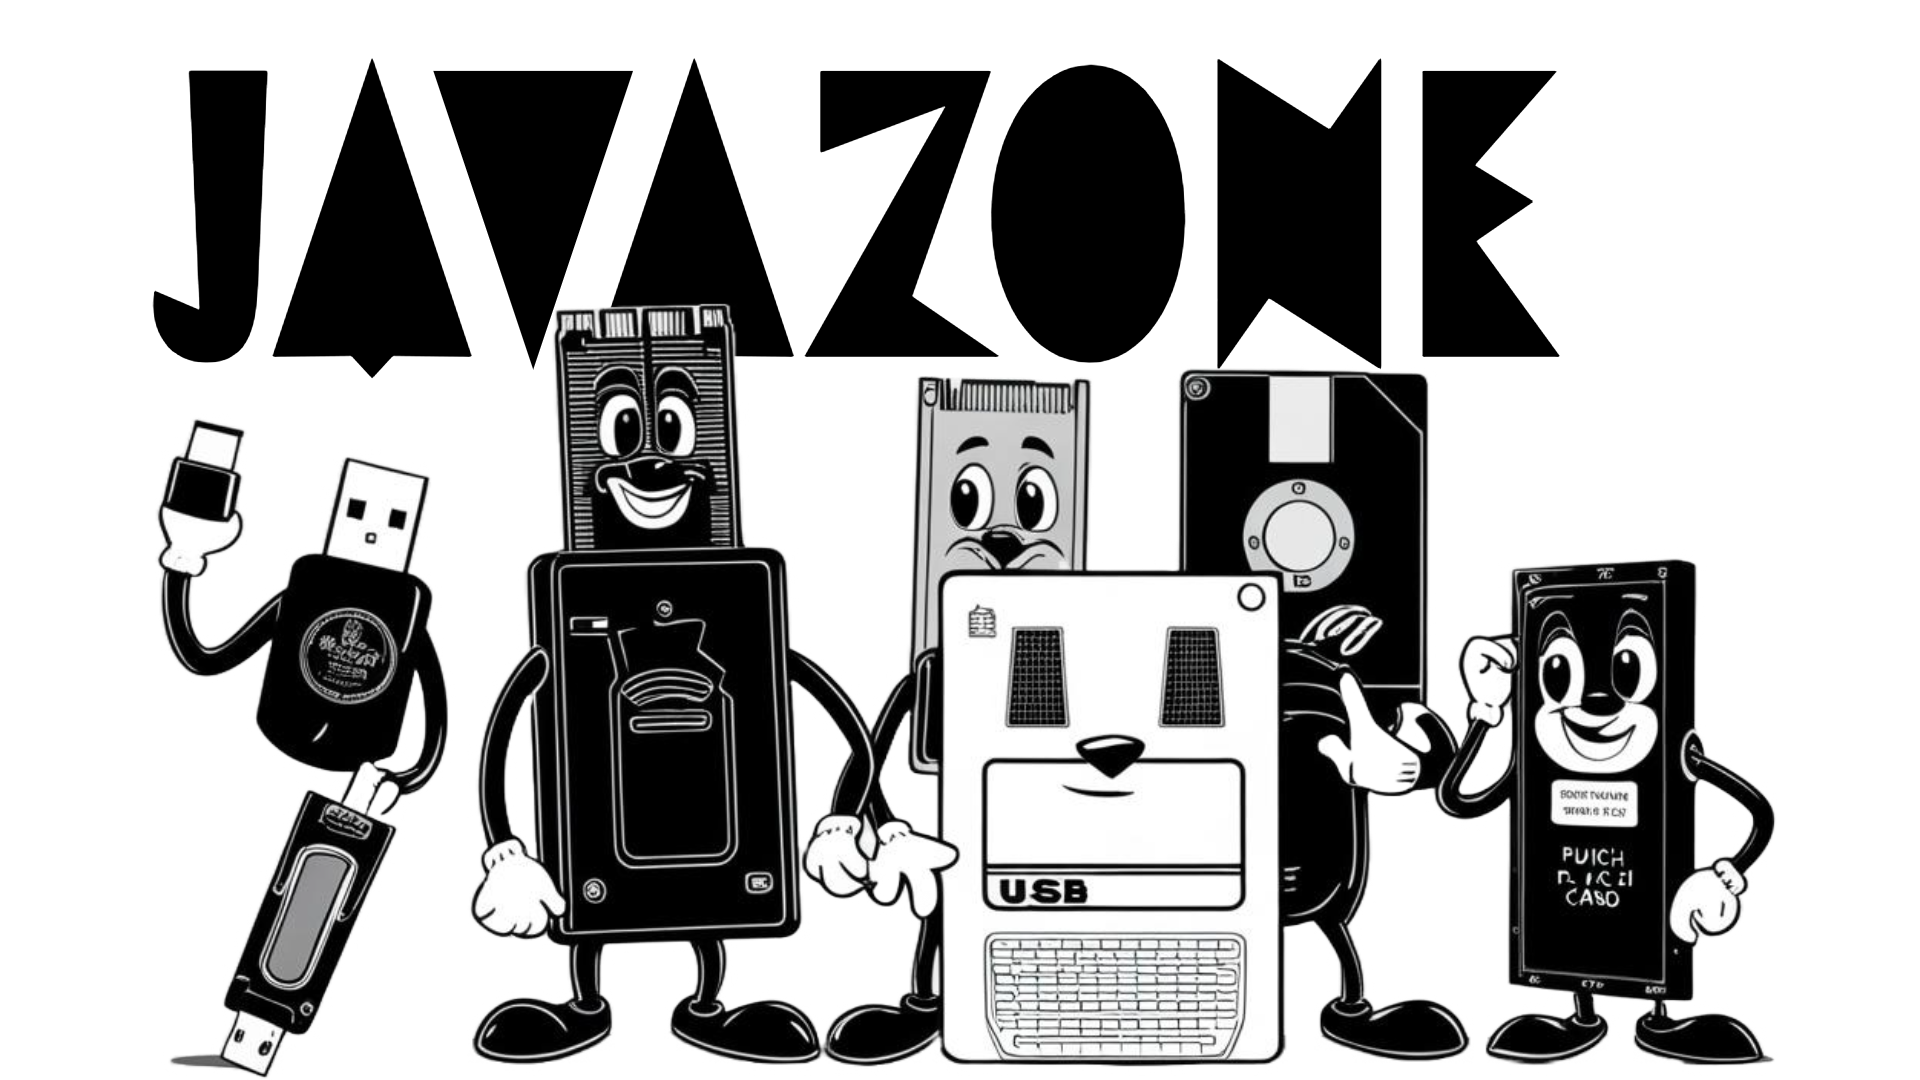
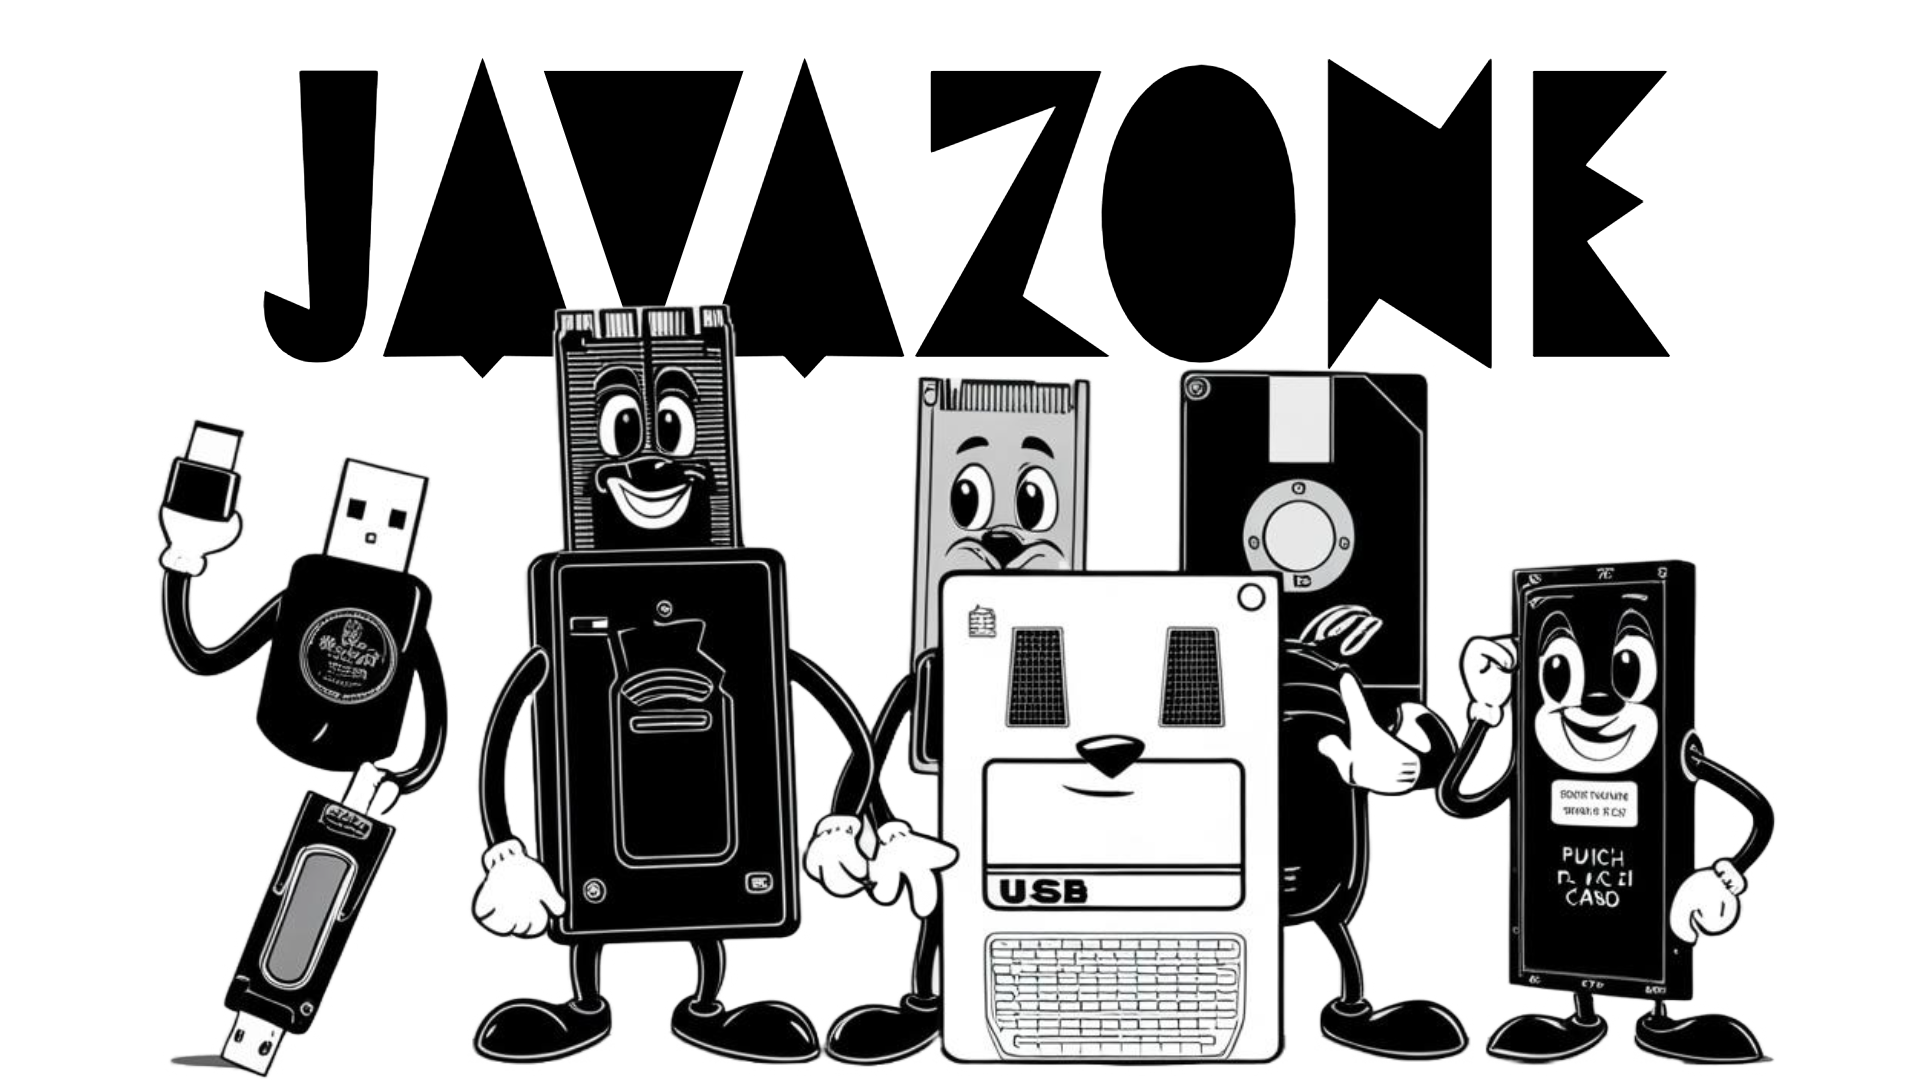
css for header og hero

Changed region(s): [[0.0625, 0.0611, 0.875, 0.3667]]

diff --git a/src/components/layout/Header.tsx b/src/components/layout/Header.tsx
@@ -1,8 +1,8 @@
-//Navigation and auth status display
-
 import { Link, useNavigate } from 'react-router-dom';
 import { useAuth } from '../../context/AuthContext';
 import logo from '../../assets/JavaZoneLogo.png';
+import { useState } from 'react';
+import './Header.css';
 
 // Type-definisjon for NavLink-komponentens props
 type NavLinkProps = {
@@ -17,8 +17,15 @@ const NavLink = ({ to, children }: NavLinkProps) => (
     </Link>
 );
 
+//Type-definisjon for menyens tilstand
+type MenuState = {
+    isOpen: boolean;
+}
+
 // Hoved-Header-komponent for nettstedets navigasjon
 export const Header = () => {
+    //Tilstandshåndtering for hamburger-menyen
+    const [menuState, setMenuState] = useState<MenuState>({ isOpen: false });
     // Hent autentiseringsstatus og utloggingsfunksjon fra auth context
     const { isAuthenticated, logout } = useAuth();
     const navigate = useNavigate();
@@ -29,17 +36,29 @@ export const Header = () => {
         navigate('/login');
     };
 
+    //Veksle menyens åpen/lukket tilstand
+    const toggleMenu = () => {
+        setMenuState(prev => ({ isOpen: !prev.isOpen }));
+    };
+
     return (
-        <header>
-            <img src={logo} className="java-zone-logo" alt="JavaZone logo" />
-            <nav>
-                {/* Hoved-navigasjonslenker */}
+        <header className="header">
+            <div className="logo-container">
+                <img src={logo} alt="JavaZone logo" />
+            </div>
+            
+            <button className="hamburger" onClick={toggleMenu}>
+                <span></span>
+                <span></span>
+                <span></span>
+            </button>
+    
+            <nav className={menuState.isOpen ? 'nav-open' : ''}>
                 <NavLink to="/">Home</NavLink>
                 <NavLink to="/speakers">Speakers</NavLink>
                 <NavLink to="/talks">Talks</NavLink>
                 <NavLink to="/rooms">Rooms</NavLink>
-
-                {/* Betinget rendering basert på autentiseringsstatus */}
+    
                 {isAuthenticated ? (
                     <button onClick={handleLogout}>Logout</button>
                 ) : (
@@ -48,4 +67,4 @@ export const Header = () => {
             </nav>
         </header>
     );
-};
+    }

diff --git a/src/App.css b/src/App.css
@@ -1,44 +1,57 @@
 #root {
-  max-width: 1280px;
-  margin: 0 auto;
+  width: 100%;
+  margin: 0;
   padding: 2rem;
   text-align: center;
+  min-height: 100vh;
 }
 
-.logo {
-  height: 6em;
-  padding: 1.5em;
-  will-change: filter;
-  transition: filter 300ms;
-}
-.logo:hover {
-  filter: drop-shadow(0 0 2em #646cffaa);
-}
-.logo.react:hover {
-  filter: drop-shadow(0 0 2em #61dafbaa);
+/*css reset*/
+*, *::before, *::after {
+  box-sizing: border-box;
+  margin: 0;
+  padding: 0;
 }
 
-@keyframes logo-spin {
-  from {
-    transform: rotate(0deg);
-  }
-  to {
-    transform: rotate(360deg);
-  }
+html {
+  font-size: 16px;
+  scroll-behavior: smooth;
 }
 
-@media (prefers-reduced-motion: no-preference) {
-  a:nth-of-type(2) .logo {
-    animation: logo-spin infinite 20s linear;
-  }
+body {
+  line-height: 1.5;
+  -webkit-font-smoothing: antialiased;
+  -moz-osx-font-smoothing: grayscale;
 }
 
-.card {
-  padding: 2em;
+img, picture, video, canvas, svg {
+  display: block;
+  max-width: 100%;
 }
 
-.read-the-docs {
-  color: #888;
+input, button, textarea, select {
+  font: inherit;
+}
+
+p, h1, h2, h3, h4, h5, h6 {
+  overflow-wrap: break-word;
+}
+
+#root {
+  isolation: isolate;
+}
+
+/*Home page css*/
+.hero-image {
+  width: 100%;
+  overflow: hidden;
+}
+
+.hero-image img {
+  width: 100%;
+  height: auto;
+  display: block;
+  max-height: 80vh;
 }
 
 /*Speaker list css*/

diff --git a/src/components/layout/Header.css b/src/components/layout/Header.css
@@ -1,0 +1,48 @@
+.header {
+    display: flex;
+    justify-content: space-between;
+    align-items: center;
+    padding: 0 15rem;
+    width: 100%;
+    box-sizing: border-box;
+    position: sticky;
+    top: 0;
+    z-index: 100;
+}
+
+.logo-container img {
+    height: 100px;
+}
+
+.hamburger {
+    display: flex;
+    flex-direction: column;
+    gap: 4px;
+    background: none;
+    border: none;
+    cursor: pointer;
+    z-index: 100;
+}
+
+.hamburger span {
+    width: 25px;
+    height: 3px;
+    background: #000;
+}
+
+nav {
+    display: none;
+}
+
+nav.nav-open {
+    display: flex;
+    flex-direction: column;
+    position: absolute;
+    top: 60px;
+    right: 20px;
+    background: #fff;
+    width: 100px;
+    padding: 1rem;
+    box-shadow: 0 2px 5px rgba(0,0,0,0.1);
+    border-radius: 4px;
+}
